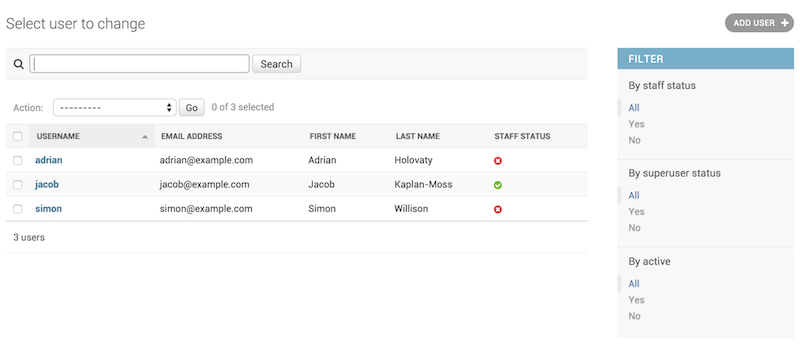
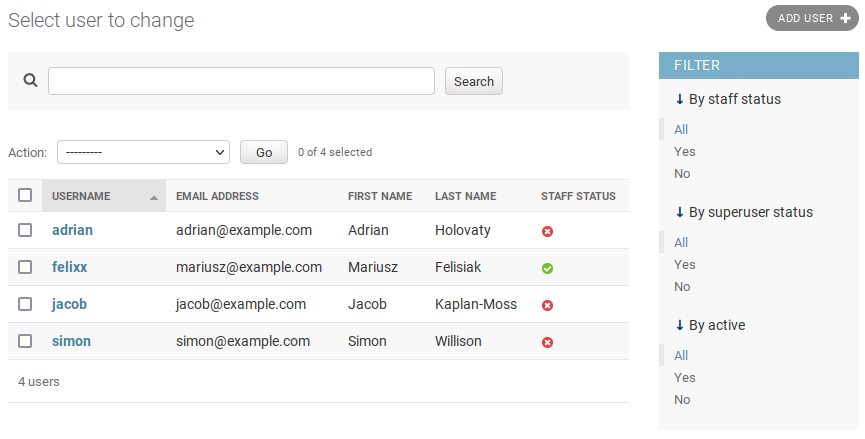
Fixed #27471 -- Made admin's filter choices collapsable.

diff --git a/django/contrib/admin/static/admin/js/filters.js b/django/contrib/admin/static/admin/js/filters.js
@@ -1,0 +1,30 @@
+/**
+ * Persist changelist filters state (collapsed/expanded).
+ */
+'use strict';
+{
+    // Init filters.
+    let filters = JSON.parse(sessionStorage.getItem('django.admin.filtersState'));
+
+    if (!filters) {
+        filters = {};
+    }
+
+    Object.entries(filters).forEach(([key, value]) => {
+        const detailElement = document.querySelector(`[data-filter-title='${key}']`);
+
+        // Check if the filter is present, it could be from other view.
+        if (detailElement) {
+            value ? detailElement.setAttribute('open', '') : detailElement.removeAttribute('open');
+        }
+    });
+
+    // Save filter state when clicks.
+    const details = document.querySelectorAll('details');
+    details.forEach(detail => {
+        detail.addEventListener('toggle', event => {
+            filters[`${event.target.dataset.filterTitle}`] = detail.open;
+            sessionStorage.setItem('django.admin.filtersState', JSON.stringify(filters));
+        });
+    });
+}

diff --git a/django/contrib/admin/static/admin/css/changelists.css b/django/contrib/admin/static/admin/css/changelists.css
@@ -148,10 +148,33 @@
     border-bottom: none;
 }
 
-#changelist-filter h3 {
+#changelist-filter h3,
+#changelist-filter details summary {
     font-weight: 400;
     padding: 0 15px;
     margin-bottom: 10px;
+}
+
+#changelist-filter details summary > * {
+    display: inline;
+}
+
+#changelist-filter details > summary {
+    list-style-type: none;
+}
+
+#changelist-filter details > summary::-webkit-details-marker {
+    display: none;
+}
+
+#changelist-filter details > summary::before {
+    content: '→';
+    font-weight: bold;
+    color: var(--link-hover-color);
+}
+
+#changelist-filter details[open] > summary::before {
+    content: '↓';
 }
 
 #changelist-filter ul {

diff --git a/django/contrib/admin/templates/admin/filter.html b/django/contrib/admin/templates/admin/filter.html
@@ -1,8 +1,12 @@
 {% load i18n %}
-<h3>{% blocktranslate with filter_title=title %} By {{ filter_title }} {% endblocktranslate %}</h3>
-<ul>
-{% for choice in choices %}
+<details data-filter-title="{{ title }}" open>
+  <summary>
+    {% blocktranslate with filter_title=title %} By {{ filter_title }} {% endblocktranslate %}
+  </summary>
+  <ul>
+  {% for choice in choices %}
     <li{% if choice.selected %} class="selected"{% endif %}>
     <a href="{{ choice.query_string|iriencode }}">{{ choice.display }}</a></li>
-{% endfor %}
-</ul>
+  {% endfor %}
+  </ul>
+</details>

diff --git a/django/contrib/admin/templates/admin/change_list.html b/django/contrib/admin/templates/admin/change_list.html
@@ -21,6 +21,7 @@
 {% block extrahead %}
 {{ block.super }}
 {{ media.js }}
+<script src="{% static 'admin/js/filters.js' %}" defer></script>
 {% endblock %}
 
 {% block bodyclass %}{{ block.super }} app-{{ opts.app_label }} model-{{ opts.model_name }} change-list{% endblock %}

diff --git a/tests/admin_changelist/tests.py b/tests/admin_changelist/tests.py
@@ -1810,3 +1810,55 @@ class SeleniumTests(AdminSeleniumTestCase):
             )
         finally:
             alert.dismiss()
+
+    def test_collapse_filters(self):
+        from selenium.webdriver.common.by import By
+
+        self.admin_login(username="super", password="secret")
+        self.selenium.get(self.live_server_url + reverse("admin:auth_user_changelist"))
+
+        # The UserAdmin has 3 field filters by default: "staff status",
+        # "superuser status", and "active".
+        details = self.selenium.find_elements(By.CSS_SELECTOR, "details")
+        # All filters are opened at first.
+        for detail in details:
+            self.assertTrue(detail.get_attribute("open"))
+        # Collapse "staff' and "superuser" filters.
+        for detail in details[:2]:
+            summary = detail.find_element(By.CSS_SELECTOR, "summary")
+            summary.click()
+            self.assertFalse(detail.get_attribute("open"))
+        # Filters are in the same state after refresh.
+        self.selenium.refresh()
+        self.assertFalse(
+            self.selenium.find_element(
+                By.CSS_SELECTOR, "[data-filter-title='staff status']"
+            ).get_attribute("open")
+        )
+        self.assertFalse(
+            self.selenium.find_element(
+                By.CSS_SELECTOR, "[data-filter-title='superuser status']"
+            ).get_attribute("open")
+        )
+        self.assertTrue(
+            self.selenium.find_element(
+                By.CSS_SELECTOR, "[data-filter-title='active']"
+            ).get_attribute("open")
+        )
+        # Collapse a filter on another view (Bands).
+        self.selenium.get(
+            self.live_server_url + reverse("admin:admin_changelist_band_changelist")
+        )
+        self.selenium.find_element(By.CSS_SELECTOR, "summary").click()
+        # Go to Users view and then, back again to Bands view.
+        self.selenium.get(self.live_server_url + reverse("admin:auth_user_changelist"))
+        self.selenium.get(
+            self.live_server_url + reverse("admin:admin_changelist_band_changelist")
+        )
+        # The filter remains in the same state.
+        self.assertFalse(
+            self.selenium.find_element(
+                By.CSS_SELECTOR,
+                "[data-filter-title='number of members']",
+            ).get_attribute("open")
+        )
